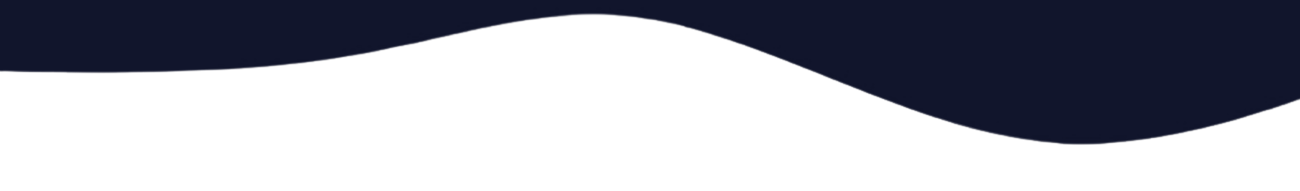
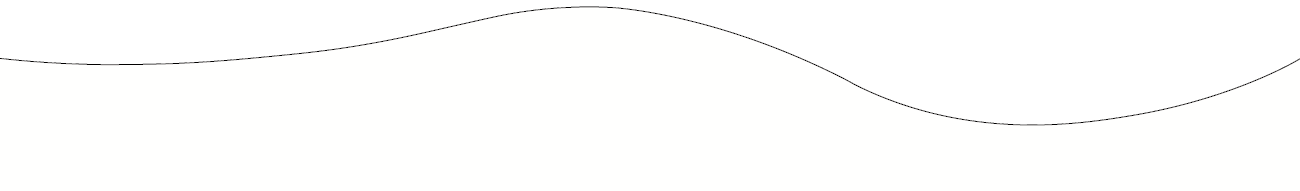
end project maybe

diff --git a/styles/globals.css b/styles/globals.css
@@ -22,14 +22,14 @@ a {
   background-color: #02d783 !important;
 }
 .background-image {
-  background-image: url('/sfondo3.png')!important;
+  background-image: url('/sfondo.png')!important;
   background-size: cover!important;
   background-blend-mode: darken;
   height: 96px !important;
   line-height: 96px !important;
 }
 .background-image2 {
-  background-image: url('/sfondo3.png')!important;
+  background-image: url('/sfondo.png')!important;
   background-size: cover!important;
   background-blend-mode: darken;
   height: 820px !important;
@@ -329,7 +329,7 @@ animation-iteration-count: infinite;
   font-style: italic !important;
   font-weight: 900 !important;
   text-align: center !important;
-  font-family: 'Anton', sans-serif !important;
+  font-family: sans-serif !important;
   word-spacing: 2px;
   
 }
@@ -382,6 +382,7 @@ animation-iteration-count: infinite;
     background-color: #f5f5f5;
     font-size: 18px;
     font-weight: 400;
+    font-style: italic;
 }
 .ant-carousel .slick-dots{
   z-index: 1 !important;

diff --git a/pages/index.jsx b/pages/index.jsx
@@ -371,7 +371,7 @@ const Home = () => {
           </Row>
           <p id="skill"></p>
         </main>
-        <img className='sfondo-onda' src="sfondoonda2.png"/>
+        <img className='sfondo-onda' src="sfondoonda.png"/>
         <Content>
           <div>
             <h1 className={"title-paragraph"}>Skills</h1>

diff --git a/styles/mobile.css b/styles/mobile.css
@@ -313,7 +313,7 @@
     font-size: 15px;
   }
   .text-machine {
-    font-size: 14px;
+    font-size: 13px;
     
 
 }
